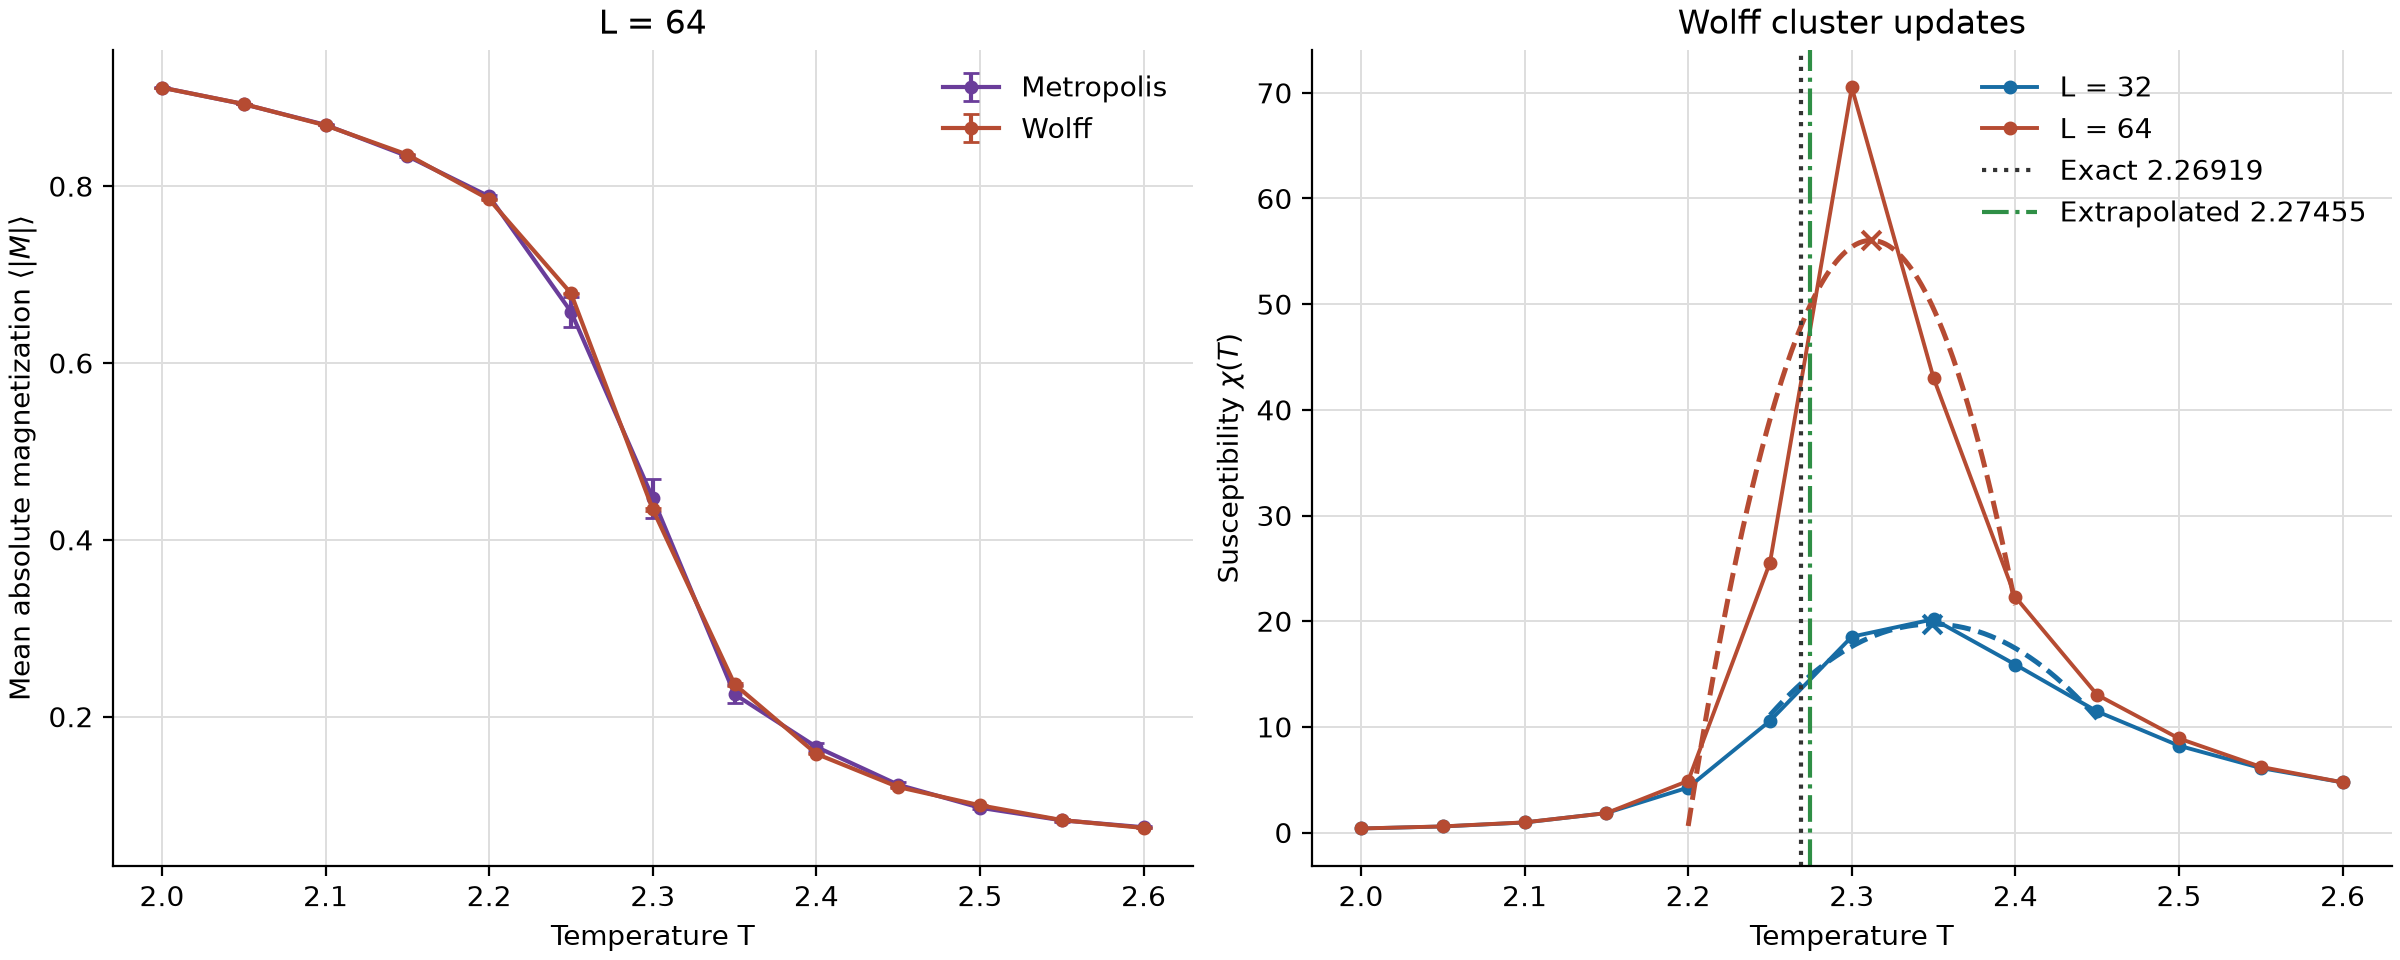
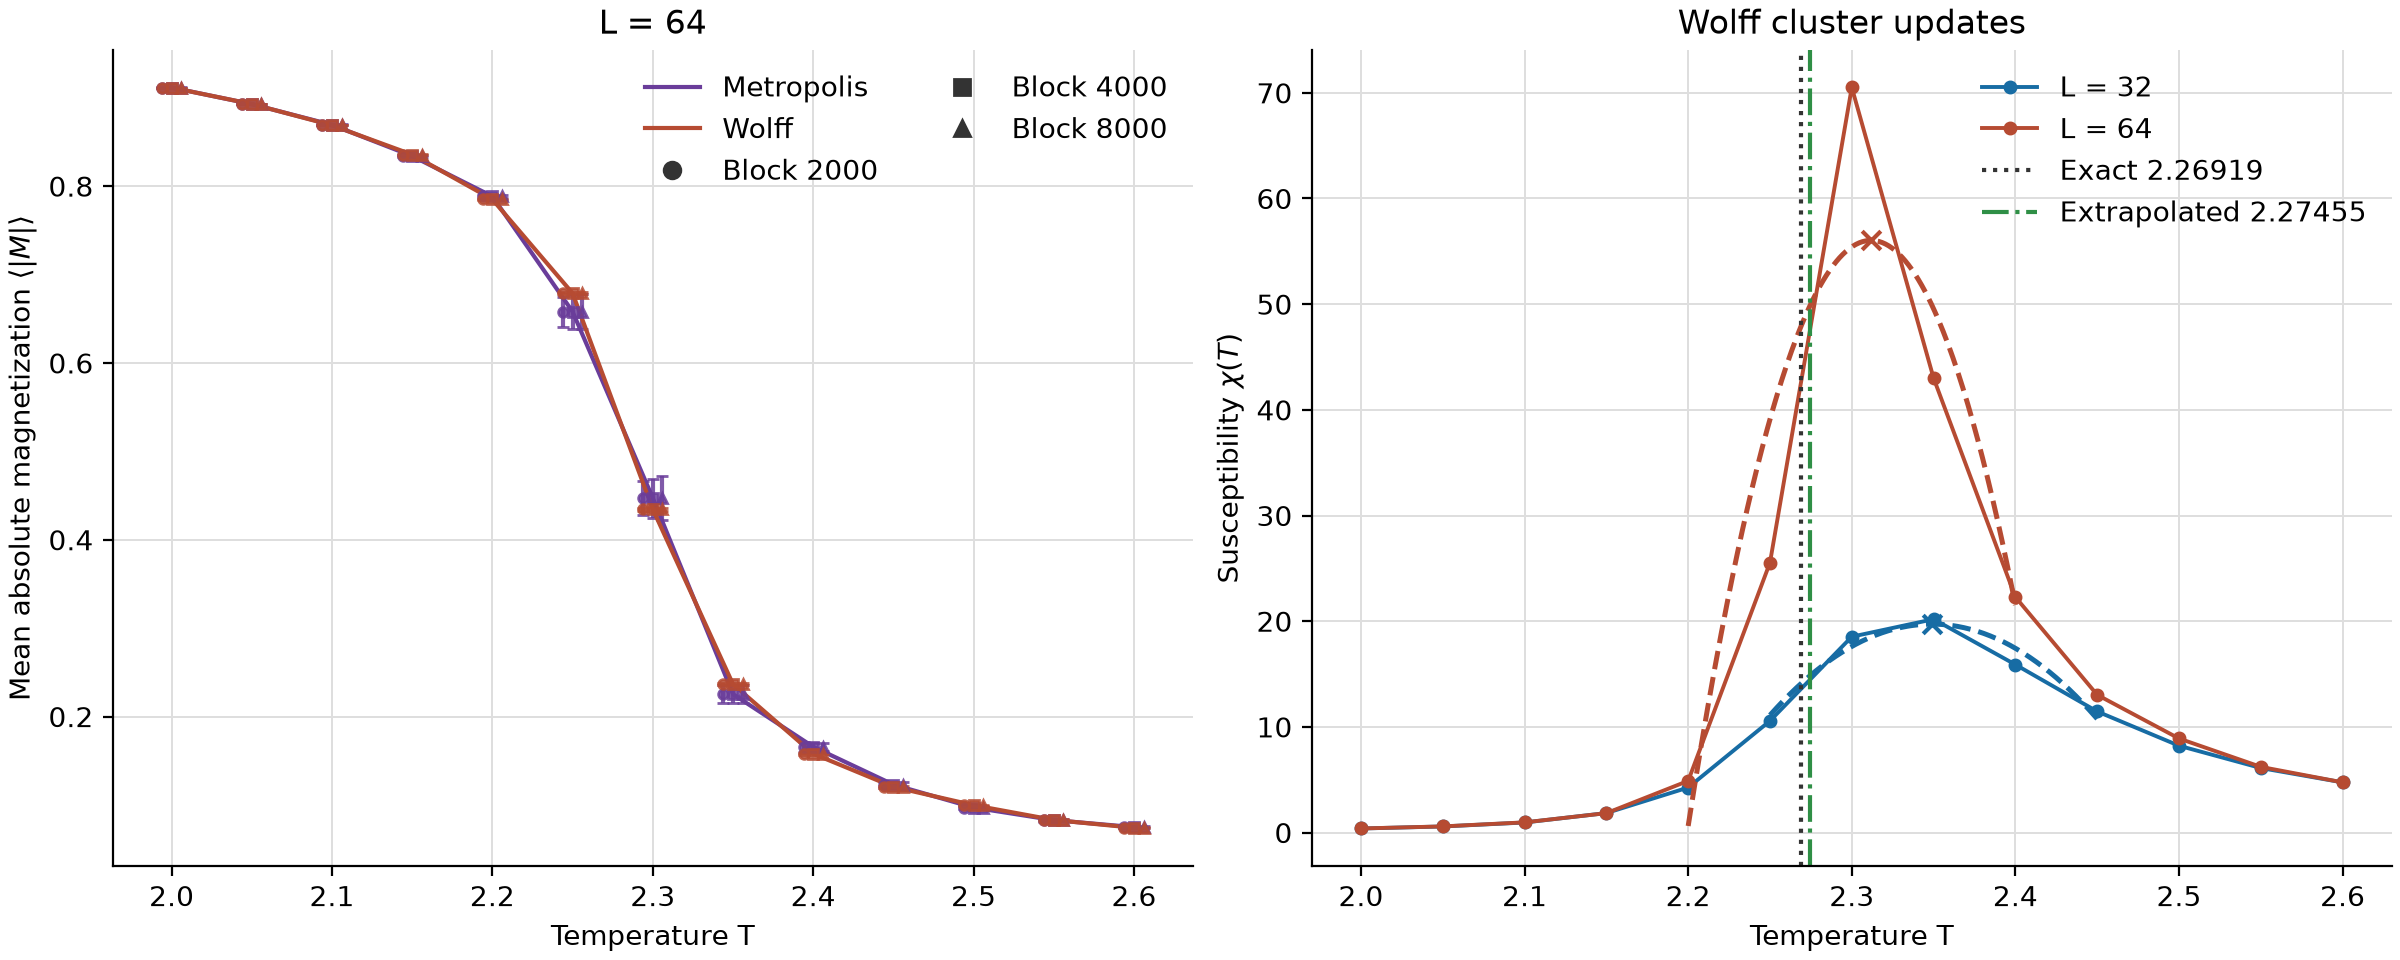
Compare magnetization bootstrap block lengths

diff --git a/week3/scripts/magnetization_compare.py b/week3/scripts/magnetization_compare.py
@@ -9,6 +9,7 @@ import numpy as np
 
 matplotlib.use("Agg")
 import matplotlib.pyplot as plt
+from matplotlib.lines import Line2D
 
 root = Path(__file__).parents[1]
 
@@ -34,37 +35,47 @@ if metropolis_metadata["update"] != "metropolis" or any(
 ):
     raise RuntimeError("unexpected update method")
 
-block_length = 4000
 replicates = 500
 rng = np.random.default_rng(2026)
 
 
-def mean_and_error(samples):
-    means = []
-    errors = []
-    for temperature in sorted(samples):
-        values = samples[temperature]
-        blocks = values.reshape(-1, block_length).mean(axis=1)
-        bootstrap = blocks[rng.integers(0, len(blocks), size=(replicates, len(blocks)))].mean(axis=1)
-        means.append(values.mean())
-        errors.append(bootstrap.std(ddof=1))
-    return np.array(means), np.array(errors)
+def bootstrap_error(values, block_length):
+    count = len(values)
+    full, remainder = divmod(count, block_length)
+    starts = rng.integers(0, count, size=(replicates, full + bool(remainder)))
+    wrapped = np.concatenate((values, values[:block_length]))
+    prefix = np.concatenate(([0.0], np.cumsum(wrapped)))
+    block_sums = prefix[np.arange(count) + block_length] - prefix[np.arange(count)]
+    totals = block_sums[starts[:, :full]].sum(axis=1)
+    if remainder:
+        remainder_sums = prefix[np.arange(count) + remainder] - prefix[np.arange(count)]
+        totals += remainder_sums[starts[:, -1]]
+    return (totals / count).std(ddof=1)
 
 
 plt.rcParams.update({"font.size": 10, "axes.spines.top": False, "axes.spines.right": False})
 fig, (magnetization, susceptibility) = plt.subplots(1, 2, figsize=(12.0, 4.8), layout="constrained")
 colors = {32: "#176ca4", 64: "#b64b32"}
+algorithm_handles = []
 for label, samples, color in (
     ("Metropolis", metropolis, "#6a3d9a"),
     ("Wolff", wolff_runs[64][1], colors[64]),
 ):
     temperatures = np.array(sorted(samples))
-    means, errors = mean_and_error(samples)
-    magnetization.errorbar(temperatures, means, yerr=errors, marker="o", markersize=4,
-                           linewidth=1.5, capsize=3, color=color, label=label)
+    means = np.array([samples[temperature].mean() for temperature in temperatures])
+    algorithm_handles += magnetization.plot(temperatures, means, color=color, linewidth=1.5,
+                                              label=label)
+    for offset, block_length, marker in zip((-0.006, 0, 0.006), (2000, 4000, 8000), ("o", "s", "^")):
+        errors = [bootstrap_error(samples[temperature], block_length) for temperature in temperatures]
+        magnetization.errorbar(temperatures + offset, means, yerr=errors, color=color, marker=marker,
+                               linestyle="none", markersize=3.5, capsize=2, alpha=0.85)
 magnetization.set(xlabel="Temperature T", ylabel=r"Mean absolute magnetization $\langle |M| \rangle$",
                   title="L = 64")
-magnetization.legend(frameon=False)
+block_handles = [
+    Line2D([], [], color="#333333", marker=marker, linestyle="none", label=f"Block {length}")
+    for length, marker in zip((2000, 4000, 8000), ("o", "s", "^"))
+]
+magnetization.legend(handles=algorithm_handles + block_handles, frameon=False, ncol=2)
 
 peaks = {}
 for size, (_, samples) in wolff_runs.items():
